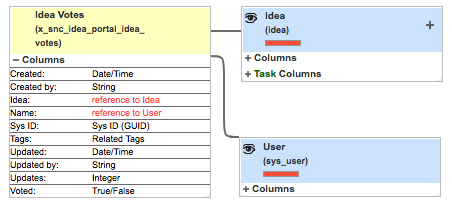
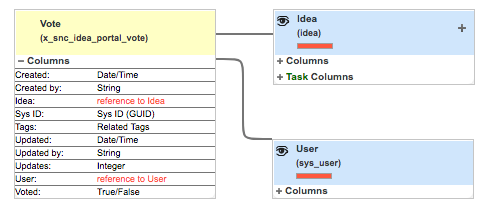
Corrected schema image and updated wording of guidebook to reflect renaming of "Idea Votes" table to "Vote"

Changed region(s): [[0.0, 0.0286, 0.9912, 0.9429]]

diff --git a/guidebook.md b/guidebook.md
@@ -261,9 +261,9 @@ Open a new tab in your browser and navigate to `/ideas` on your instance. You sh
 
 ![Verify](images/lab-05/01-verify.png)
 
-## The Idea Votes Table
+## The Votes Table
 
-Ideas are stored in the out-of-box **Idea** table (`idea`), which is part of the **Project Portfolio Suite with Financials** plugin. We have created a custom table called **Idea Votes** to store votes (`x_snc_idea_portal_idea_votes`). Below you can see the schema diagram for the table:
+Ideas are stored in the out-of-box **Idea** table (`idea`), which is part of the **Project Portfolio Suite with Financials** plugin. We have created a custom table called **Vote** to store votes (`x_snc_idea_portal_vote`). Below you can see the schema diagram for the table:
 
 ![Idea Votes Schema](images/lab-05/02-idea-votes.png)
 
